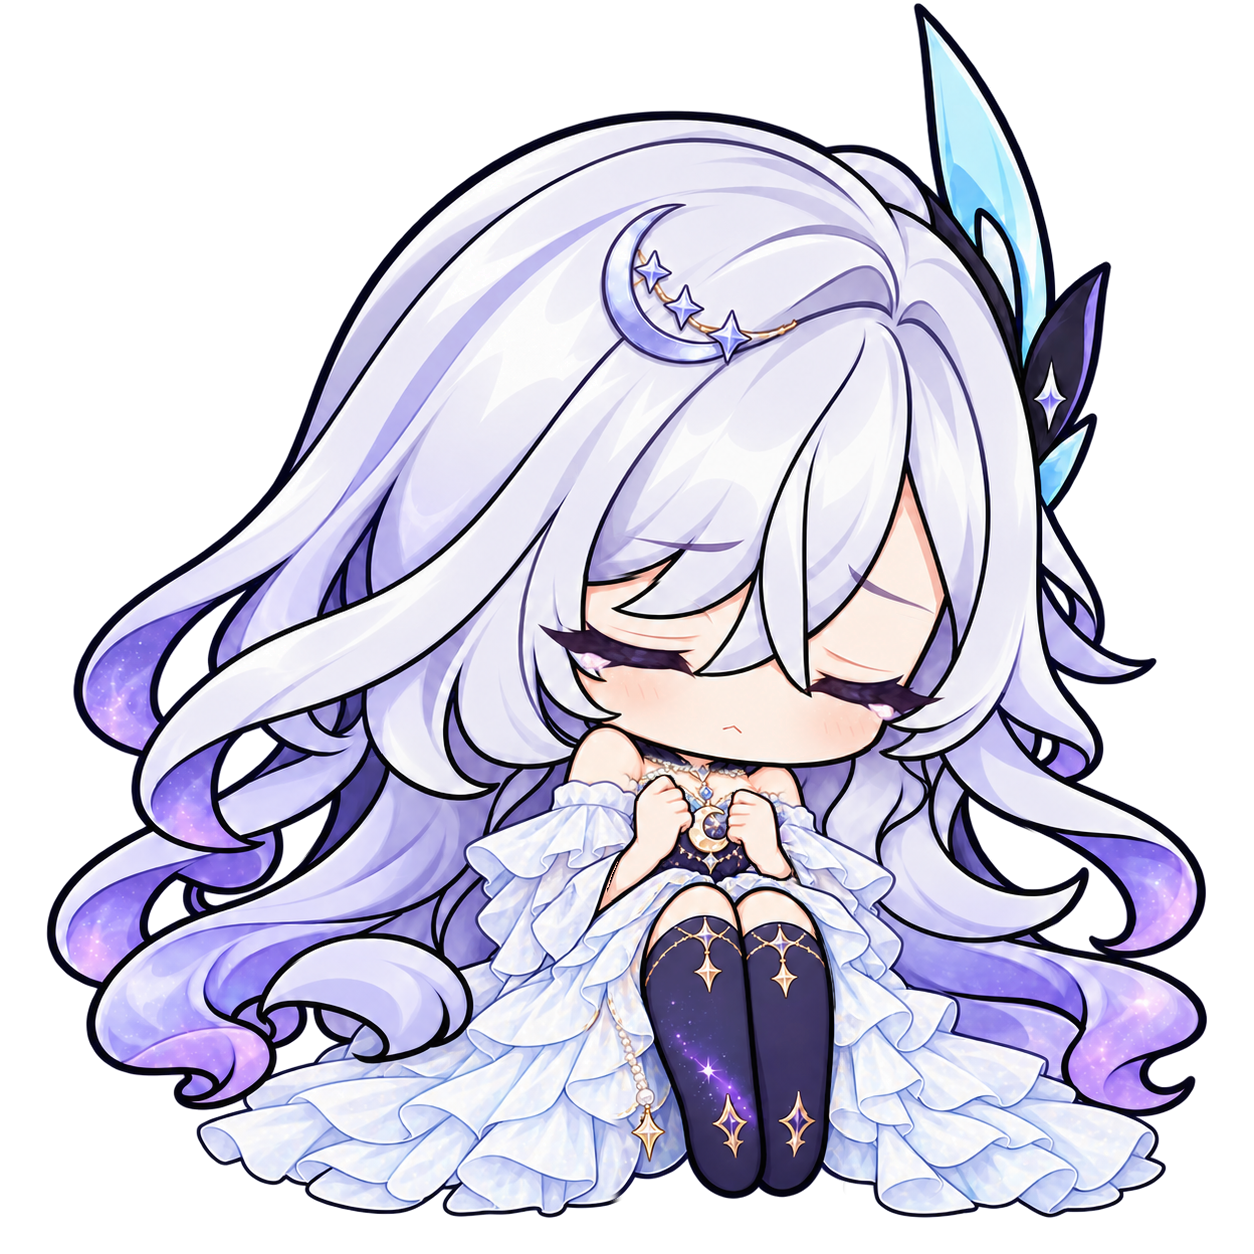
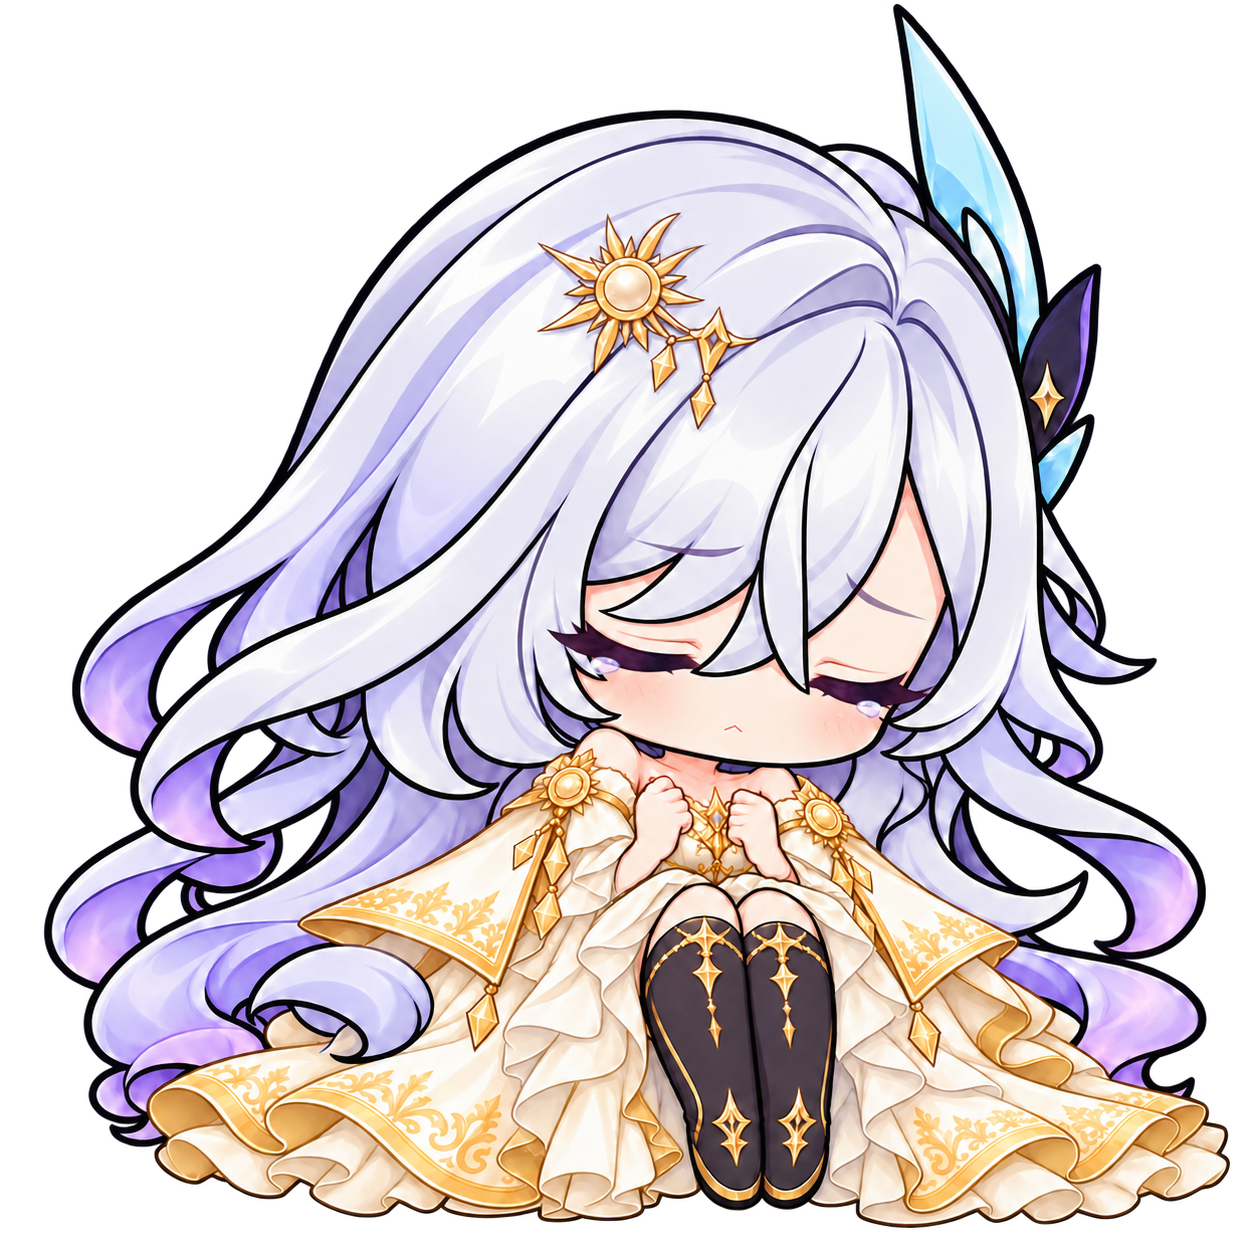
art: checkpoint 68 Starsea gown frames before quota recovery
Add five sad blink frames and three accepted side-lying sleep frames. Preserve two rejected registration drafts outside the worktree and retain baseline files until redrawn. The built-in quota blocked their correction; 42 step-one sprites remain, with recovery reported for October 13 at 17:20 Toronto time. No step 2, paid API, runtime edits or publication.

diff --git a/HANDOFF.md b/HANDOFF.md
@@ -1,8 +1,11 @@
 # Current Progress
-- IN PROGRESS: 60/110 sprites saved; headpat pairs, poked_1 and sad_1 complete for all tiers. Next generate eye-only sad_blink from each new sad_1 and side-lying sleep_1/sleep_2; then thinking, typing and wave. Step 1 only; no paid API or push.
+- **LATEST CHECKPOINT: 68/110 DELIVERED, STEP 1 INCOMPLETE — QUOTA BLOCKED AGAIN.** 2026-10-12 continuation added 50 usable redrawn sprites to the original 18. All tiers have idle_1..4, idle_blink, celebrate_1..2, dragged_1, headpat_1..2, poked_1, sad_1 and sad_blink (65 total); mingyue/yinhe/xinghai also have sleep_1 (3 total). Root STARSEA_GOWN_PREVIEW.png still shows the five new idle_1 costumes. No step 2, paid API, code edits, merge or push.
+- Sleep registration QA: original sleep_1 visible alpha bbox starts y171; generated fanxing started y309 and haori y290, causing visibly lower/smaller heads. Both failed comparison QA. Correction attempts using only the original pose reference returned HTTP 429 usage_limit_reached before generating. Their generated drafts remain preserved under the generated_images paths listed in generation-state.json.pendingCorrections; only these two known agent-owned uncommitted files were restored to HEAD baseline after SHA256 identity checks. Do NOT count them as delivered redraws. Other sleep_1 tiers start y174/y172/y184 and were visually inspected as side-lying poses.
+- Current quota reset from the error: 1791926437 = 2026-10-13 17:20:37 America/Toronto. User has already selected waiting for built-in recovery; paid API remains unauthorized. Next resume must repair fanxing/haori sleep_1 first using the saved sole-pose-input prompt, then generate all tiers' sleep_2, thinking_1, thinking_2, typing_1, typing_2, typing_3, wave_1 and wave_2 (40 never redrawn + 2 rejected sleep_1 = 42 outstanding).
+- Checkpoint verification: all 68 delivered PNGs freshly decoded at 1254x1254 RGBA with alpha extrema 0/255 and 68 distinct SHA256 hashes. Four corner alpha values are zero except the two documented alpha=1 residue pixels. Headpat, poked/sad, sad blink and the accepted three sleep_1 variants viewed in comparison sheets. Baseline-to-worktree scope equals exactly 68 sprite paths, HANDOFF.md and STARSEA_GOWN_PREVIEW.png (70 files); no runtime/code, existing per-tier previews or other project files changed. `git diff --check` passes. Native wardrobe animation and exact pixel registration remain unverified; step 1 is incomplete.
 - Resume milestone 60/110: all five tiers' headpat_1, headpat_2, poked_1 and sad_1 redrawn; the two headpat gestures, wink/puffed cheek and sad watery eyes inspected in comparison sheets. Cumulative 60 PNGs decode at 1254x1254 RGBA, all unique hashes, alpha 0..255, corners zero except a single alpha=1 residue pixel in xinghai/dragged_1 and fanxing/headpat_1. No new opaque-backdrop or dimension errors. Still only step 1; no paid API or runtime/code changes.
 - Resume milestone 2026-10-12: built-in quota recovered; added 22 sprites: yinhe/xinghai idle_4 plus all five tiers' idle_blink, celebrate_1, celebrate_2 and dragged_1. All tiers now have eight new frames (40/110); 70 requested frames remain. Idle blink, celebration and lifted-pose sheets viewed. All 40 decode at 1254x1254 RGBA with alpha 0..255 and unique SHA256s; corners are alpha 0 except one visually imperceptible alpha=1 pixel in xinghai/dragged_1. Its initial visible outer-cloth edge was regenerated; visible bbox now (47,12,1222,1230), inside canvas. Initial strict zero-corner QA failure and this generator residue are explicitly retained here; no opaque backdrop was introduced. Exact pixel registration/unchanged non-eye pixels and native animation acceptance remain unverified.
-- **2026-10-12 STARSEA GOWN STEP 1 IN PROGRESS — BUILT-IN GENERATION RESUMED.** New user assignment supersedes the historical V1.5 art restriction for this isolated art task. Worktree `D:\Documents\ChatGPT\petoken-outfits-starsea-gown`, branch `codex/outfits-starsea-gown`, base `ad44b23`; Claude's checkout/branch unchanged. No code edits, step 2, merge or push.
+- **2026-10-12 STARSEA GOWN ART ASSIGNMENT.** New user assignment supersedes the historical V1.5 art restriction for this isolated art task. Worktree `D:\Documents\ChatGPT\petoken-outfits-starsea-gown`, branch `codex/outfits-starsea-gown`, base `ad44b23`; Claude's checkout/branch unchanged. No code edits, step 2, merge or push.
 - Prior checkpoint completed 18/110 requested sprite redraws: `assets/v2_5/outfits/starsea_gown/{fanxing,mingyue,haori}/idle_{1,2,3,4}.png` and `{yinhe,xinghai}/idle_{1,2,3}.png`. Added root `STARSEA_GOWN_PREVIEW.png`: five tiers in order fanxing, mingyue, haori, yinhe, xinghai, same idle_1 pose, large and 80px comparisons, no labels. Remaining 92 sprites and the five existing per-tier PREVIEW.png files retain baseline artwork. This partial mixed set is NOT a completed/accepted step 1.
 - Used built-in imagegen, one generation per sprite, original pose plus a generated tier costume reference; no external art/code reused or added dependency. Tier directions: matte gray-blue single cloth/no jewelry/no glow; pearl-silver two layers/crescent; warm ivory/champagne-gold embroidery/short cape/sun brooch; midnight-navy star patterns/platinum/long cyan-edged gauze; bright mint/rose aurora panels/large winglike stole/star crown/particles. Preserve silver-lavender hair, violet eyes, natural side feather and seated pose identity. Higher-tier master edge-clearance corrections were generated before the subsequent frames.
 - Verification: all 18 delivered sprites decode at 1254x1254 RGBA, alpha extrema 0/255, four corner pixels transparent, 18 unique SHA256 hashes, no visible top-edge clipping at alpha >32; all 18 visually inspected as a four-frame/five-tier contact sheet, preview also viewed at large/80px scale. `git diff --check` passed. Exact pixel registration, full animation/blink continuity and native wardrobe integration remain unverified; do not claim them accepted.
@@ -99,7 +102,7 @@
 - Explicit Git allowlists. Current authorization permits GitHub main/tag/release as v1.3.0; APP_VERSION is promoted to1.3.0. Preserve local stable installation and unrelated .autopilot. Existing public repository and fast-forward history are retained.
 
 # Next Steps
-- [ ] (Starsea gown, highest priority) Continue built-in generation for every tier's `sad_blink`, `sleep_1`, `sleep_2`, `thinking_1`, `thinking_2`, `typing_1`, `typing_2`, `typing_3`, `wave_1`, `wave_2` (50 outstanding total). Blink variants must only close eyes on the corresponding new base frame. Check alignment/continuity and rarity differences, regenerate preview if masters change, then commit the COMPLETED step 1 locally and report its hash. Do not push or switch to paid API. Step 2 requires the user's acceptance of completed step 1.
+- [ ] (Starsea gown, highest priority) After built-in quota recovery, redraw rejected fanxing/haori sleep_1 using the original sleep_1 pose as sole image input and preserve original feather/head/foot registration. Then every tier's `sleep_2`, `thinking_1`, `thinking_2`, `typing_1`, `typing_2`, `typing_3`, `wave_1`, `wave_2` (42 outstanding total including the two repairs). Check alignment/continuity and rarity differences, regenerate preview if masters change, then commit the COMPLETED step 1 locally and report its hash. Do not push or switch to paid API. Step 2 requires the user's acceptance of completed step 1.
 - [x] Human accepted V1.4; Codex V1.4 work ended.
 - [ ] Await next user assignment after V1.5 Codex-only local commit/report; user forwards shared compatibility UI and historical resize-test requirements to Claude.
 - Claude owns V1.5 shared integration/build/merge; human owns acceptance. Codex must not expand file scope, cross-review, merge, push, tag or publish.
@@ -114,7 +117,7 @@
 - No required release work remains; future changes need a new task. Local stable installation is not replaced.
 
 # Open Issues
-- Starsea gown step 1 remains incomplete at 60/110; generation resumed after quota recovery. The branch mixes new and old action art until the remaining 50 frames are redrawn. Exact registration/continuity/native integration not accepted; complete and verify them before declaring step 1 done. User chose built-in generation only; do not switch to paid API. No automatic wakeup is configured/available in this session.
+- Starsea gown step 1 remains incomplete at 68/110; imagegen quota exhausted again until the reported 2026-10-13 17:20:37 recovery. Two rejected sleep_1 variants were restored to baseline and need pose-registered redraws; 40 other frames still use original art. Exact pixel registration/unchanged non-eye pixels/native integration not accepted; do not declare step 1 complete. User chose built-in generation only; do not switch to paid API. No automatic wakeup is configured/available in this session.
 - Current V1.4 fixed Hub/artwork palette/project rows plus retained portrait/pager/checkbox/selection have bounded native/source and root frozen/package PASS. Fixed440x720 Hub cannot guarantee containment on smaller workareas. Human palette preference/beginner comprehension/daily usability/otherDPI and separate release approval remain pending. Synchronous locked saves take~289–311ms under the reviewed fault; local note data is plain text as documented.
 - Historical v1.3.0 candidate appearance/visual QA was accepted by the user; new V1.4 workbench human QA is pending. This does not establish exhaustive multi-monitor/fractional-DPI/tiny-workarea or physical activity detection coverage; no universal-device claim.
 - Current safe ring has up to8hits per page;24/64task universes are tested and production is not truncated to64. Whole composition requires enough workarea for body plus fixed hit footprints; impossible tiny workareas retain decoration without containment guarantee. Detail overlap/appearance remain human judgment. Synthetic poses prove rendering, not live physical keyboard/microphone/media detection.
